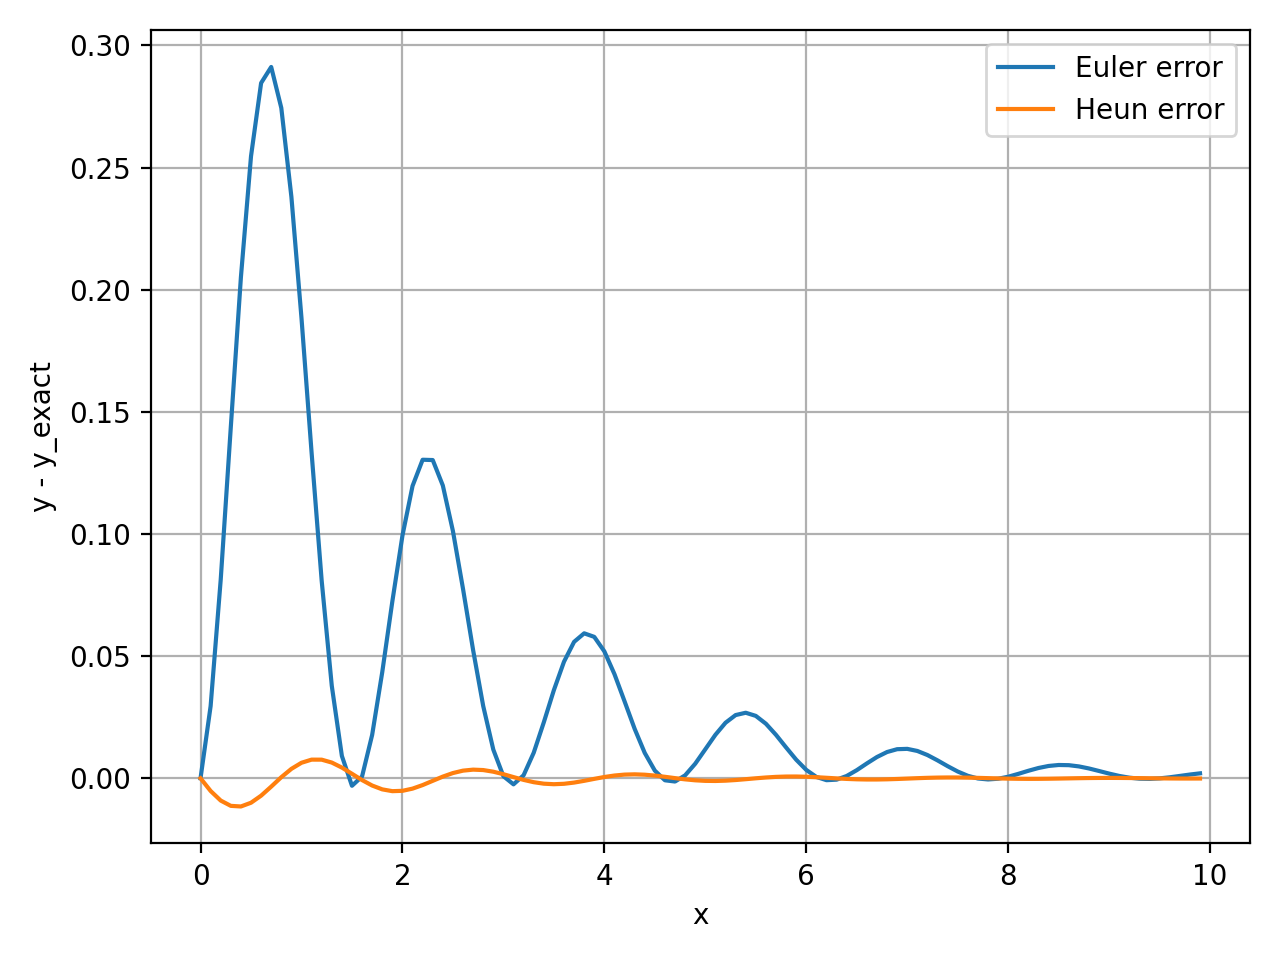
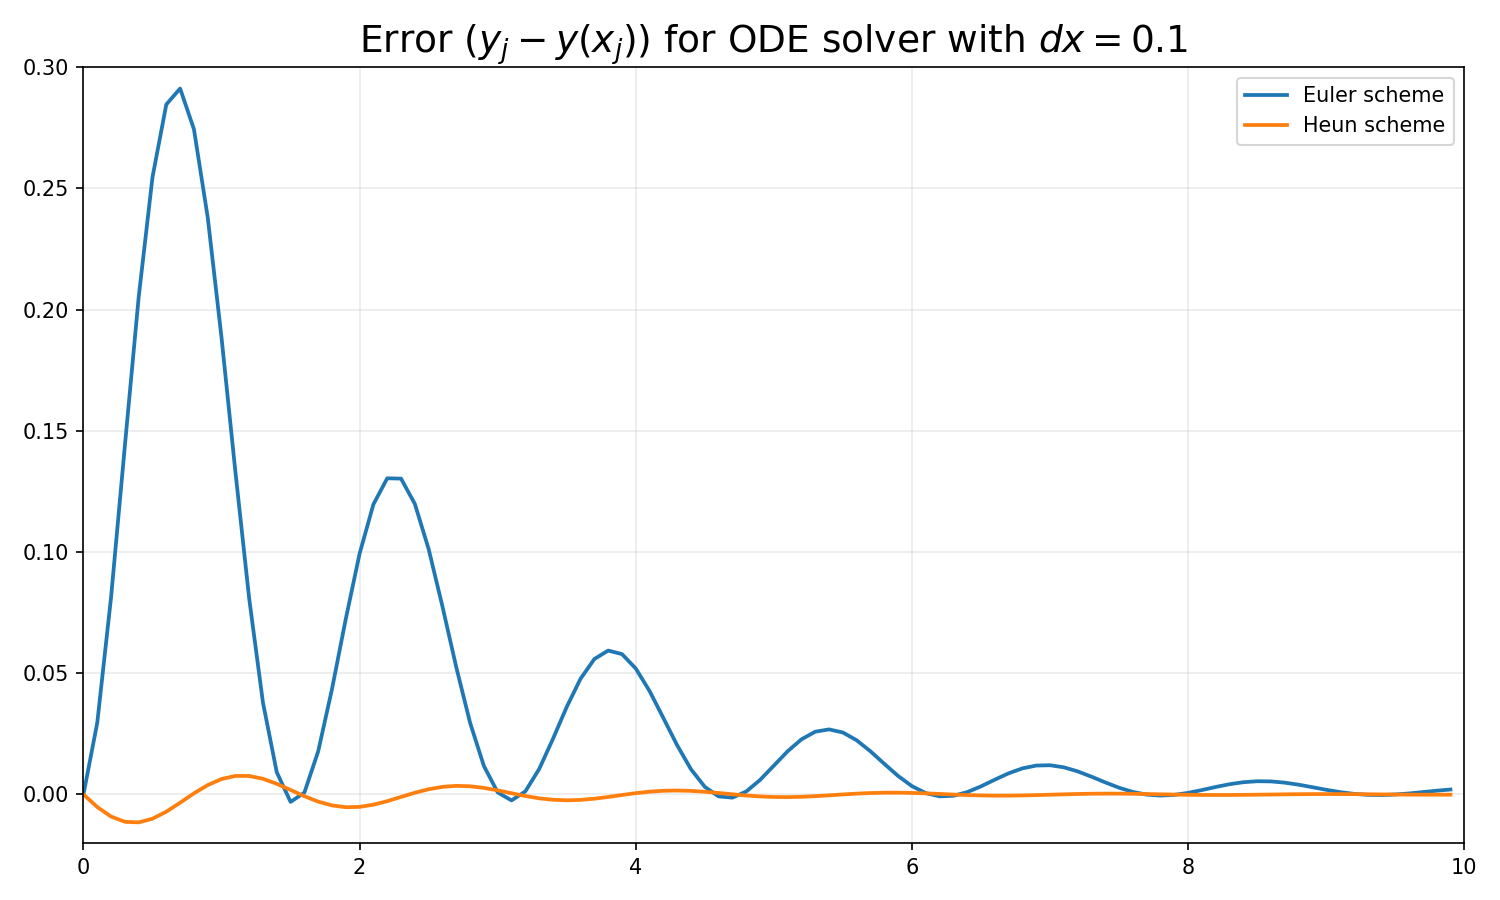
Add comments to linear ode exercise

diff --git a/class1/graph_ode.py b/class1/graph_ode.py
@@ -1,22 +1,23 @@
-import numpy as np
+import xarray as xr
 import matplotlib.pyplot as plt
 
-data = np.loadtxt("euler_heun.txt")
-x = data[:,0]
-err_eu = data[:,1]
-err_he = data[:,2]
+# Read file
+ncfile = "euler_heun.nc"
+ds = xr.open_dataset(ncfile)
 
-plt.figure()
-plt.plot(x, err_eu, label="Euler error")
-plt.plot(x, err_he, label="Heun error")
-plt.xlabel("x")
-plt.ylabel("y - y_exact")
-plt.legend()
-plt.grid(True)
+# Variables
+x = ds["x"]
+e_euler = ds["euler_error"]
+e_heun  = ds["heun_error"]
+
+# Graph
+plt.figure(figsize=(10,6), dpi=150)
+plt.plot(x, e_euler, linewidth=1.8, label="Euler scheme")
+plt.plot(x, e_heun,  linewidth=1.8, label="Heun scheme")
+plt.title(r"Error $(y_j - y(x_j))$ for ODE solver with $dx = 0.1$", fontsize=18)
+plt.grid(True, alpha=0.25)
+plt.xlim(0,10)
+plt.ylim(-0.02,0.30)
+plt.legend(loc="upper right", frameon=True)
 plt.tight_layout()
-plt.savefig("errors.png", dpi=200)
 plt.show()
-
-print("max|error| Euler:", np.max(np.abs(err_eu)))
-print("max|error| Heun :", np.max(np.abs(err_he)))
-
